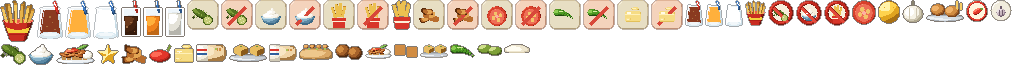
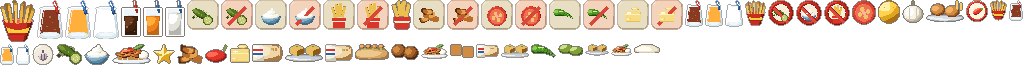
Cila: hava rozeti, moto etiketi, liste ikonları, bozuk testler, kaos testi
- hava rozeti (yağmur/kar/sıcak) üst satırda borç kutusunun yanında; eskiden
  (8,32)'de telefonun üstüne biniyor, yazı panelden taşıyordu
- 'BOZUK' moto etiketi yeni tezgâhta bölmenin altında (Dayı'nın göbeğini
  kapatıyordu)
- gün sonu raporu ve rekorlar: tek tip küçük ürün ikonları (lst_*); eskiler
  farklı boyda satırlara taşıyordu
- tests/kaos.gd: HD açık, rastgele istasyon eylemleri + zorla olaylar;
  3x (3000/10000/10000 kare) sıfır betik hatası
- testler: economy_visual fiyatları dosyadan okur; mouse_slicing_visual 2x HD
  tuvali ölçekli örnekler ve piksel bıçağı HD kapalı denetler; profile.gd
  artık olmayan profile_times'ı atlar
- tests/hd_sahne.gd --ders-gorulmus, --moto-bozuk

Changed region(s): [[0.0, 0.6769, 0.6562, 1.0], [0.9688, 0.0, 1.0, 0.3385]]

diff --git a/blender/models/ikon_hd.py b/blender/models/ikon_hd.py
@@ -489,6 +489,8 @@ SIP_OLCEK = {"wrap": (wrap, 0.9, "#2b1f14"), "fbox": (fbox, 0.6, "#2b1f14"), "sw
              "fanta": (bardak("fanta"), 0.68, "#3f4a52"), "ayran": (bardak("ayran"), 0.68, "#3f4a52")}
 for _id, (_fn, _s, _c) in SIP_OLCEK.items():
     parca("sip_%s" % _id, (-9, -9, 18, 17), olcekli(_fn, _s), cizgi=_c, cizgi_alfa=120)
+    # liste satirlari (gun sonu raporu, rekorlar): 13 px satira sigan kucuk takim
+    parca("lst_%s" % _id, (-8, -7, 16, 14), olcekli(_fn, _s * 0.78), cizgi=_c, cizgi_alfa=120)
 
 
 # BIRLESIK: balondaki "!" / "G" sos isareti anlasilmiyordu -> kucuk sos rozeti:
